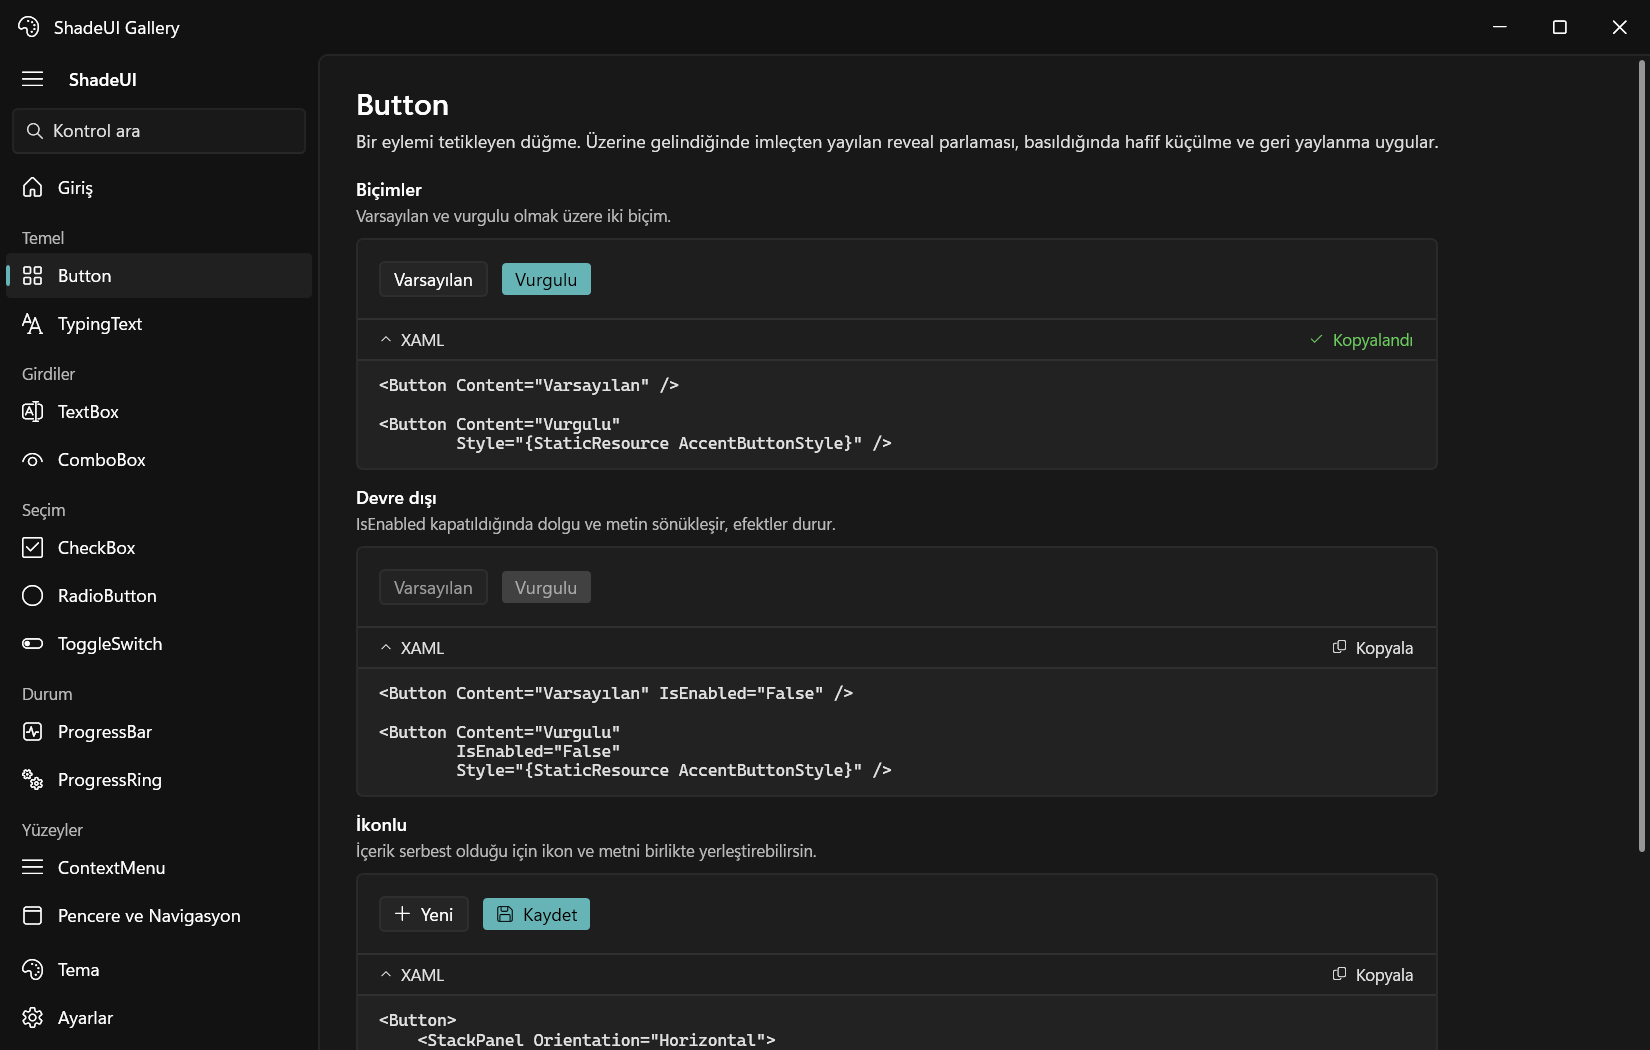
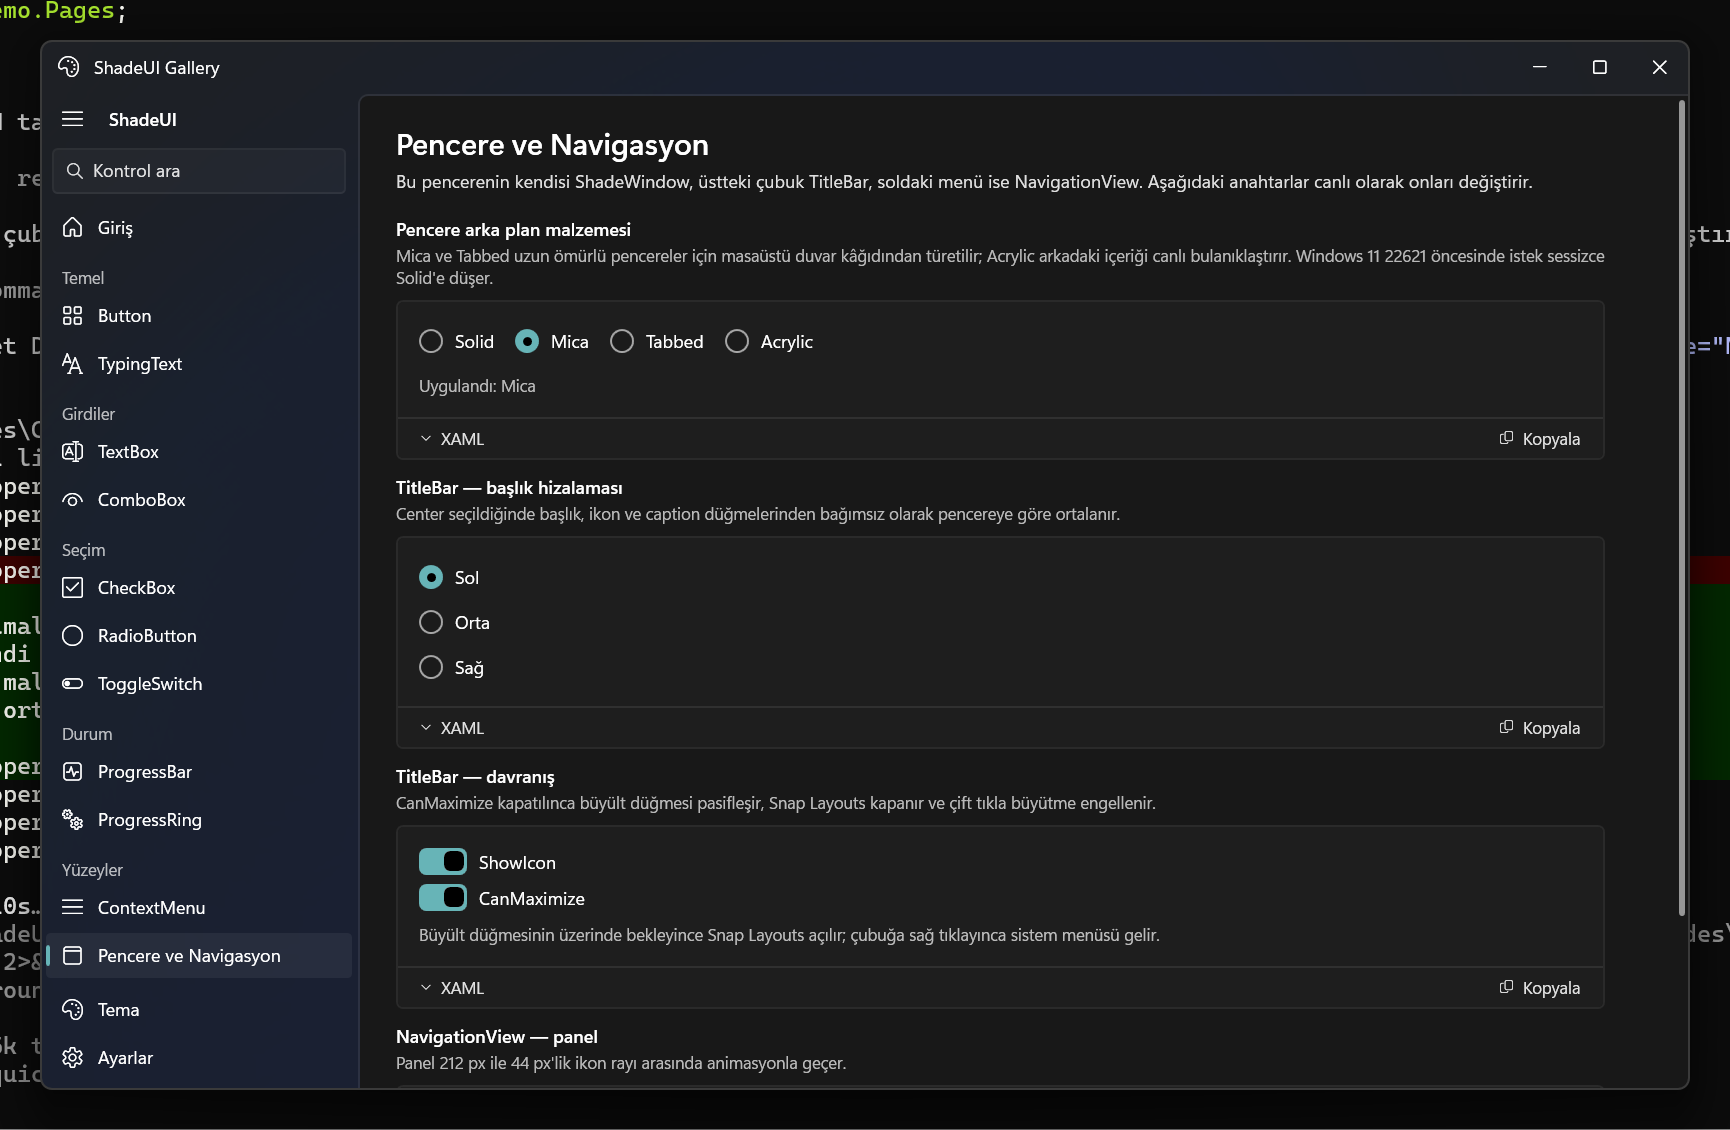
Pencere arka plan malzemesi: Solid, Mica, Tabbed, Acrylic
- ShadeWindow.Backdrop ile DWMWA_SYSTEMBACKDROP_TYPE isteniyor
  (Mica / Mica Alt "Tabbed" / Acrylic). Salt okunur ActualBackdrop, isteğin
  kabul edilip edilmediğini bildirir; Windows 11 22621 öncesinde DWM çağrısı
  başarısız olur ve pencere sessizce Solid'e döner.
- Malzemenin görünmesi için iki koşul gerekiyordu: HwndSource.CompositionTarget
  saydam olmalı ve pencere kendi zeminini boyamamalı. Şablon kökü artık yalnızca
  ActualBackdrop=Solid iken ApplicationBackgroundBrush ile boyanıyor.
- Tema değişiminde malzeme yeniden uygulanıyor; koyu/açık mod bayrağı DWM'in
  tint'ini değiştirdiği için gerekli.
- WindowStyle SingleBorderWindow -> None. GlassFrameThickness=-1 çerçeveyi
  istemci alanına uzattığı için DWM kendi caption düğmelerini de çiziyordu;
  opak zeminde görünmüyorlardı ama zemin saydamlaşınca bizimkilerin yanında
  ikinci bir set olarak ortaya çıktılar.

Galeride "Pencere ve Navigasyon" sayfasına canlı seçici ve uygulanan malzemeyi
bildiren durum satırı eklendi.

diff --git a/samples/ShadeUI.Demo/Pages/ShellPage.xaml b/samples/ShadeUI.Demo/Pages/ShellPage.xaml
@@ -16,6 +16,46 @@
                 Style="{StaticResource BodyTextBlockStyle}"
                 Text="Bu pencerenin kendisi ShadeWindow, üstteki çubuk TitleBar, soldaki menü ise NavigationView. Aşağıdaki anahtarlar canlı olarak onları değiştirir." />
 
+            <ui:ControlExample
+                x:Name="Ex0"
+                Description="Mica ve Tabbed uzun ömürlü pencereler için masaüstü duvar kâğıdından türetilir; Acrylic arkadaki içeriği canlı bulanıklaştırır. Windows 11 22621 öncesinde istek sessizce Solid'e düşer."
+                Header="Pencere arka plan malzemesi">
+                <StackPanel>
+                    <StackPanel Orientation="Horizontal">
+                        <RadioButton
+                            Checked="OnBackdropChecked"
+                            Content="Solid"
+                            GroupName="Backdrop"
+                            IsChecked="True"
+                            Tag="Solid" />
+                        <RadioButton
+                            Margin="14,0,0,0"
+                            Checked="OnBackdropChecked"
+                            Content="Mica"
+                            GroupName="Backdrop"
+                            Tag="Mica" />
+                        <RadioButton
+                            Margin="14,0,0,0"
+                            Checked="OnBackdropChecked"
+                            Content="Tabbed"
+                            GroupName="Backdrop"
+                            Tag="Tabbed" />
+                        <RadioButton
+                            Margin="14,0,0,0"
+                            Checked="OnBackdropChecked"
+                            Content="Acrylic"
+                            GroupName="Backdrop"
+                            Tag="Acrylic" />
+                    </StackPanel>
+                    <TextBlock
+                        x:Name="BackdropStatus"
+                        Margin="0,10,0,0"
+                        Foreground="{DynamicResource TextFillColorTertiaryBrush}"
+                        Style="{StaticResource CaptionTextBlockStyle}"
+                        TextWrapping="Wrap" />
+                </StackPanel>
+            </ui:ControlExample>
+
             <ui:ControlExample x:Name="Ex1" Description="Center seçildiğinde başlık, ikon ve caption düğmelerinden bağımsız olarak pencereye göre ortalanır." Header="TitleBar — başlık hizalaması">
                 <StackPanel>
                     <RadioButton

diff --git a/src/ShadeUI/Resources/Controls/Window.xaml b/src/ShadeUI/Resources/Controls/Window.xaml
@@ -14,11 +14,22 @@
                     UseAeroCaptionButtons="False" />
             </Setter.Value>
         </Setter>
-        <Setter Property="Background" Value="{DynamicResource ApplicationBackgroundBrush}" />
+        <!--
+            Sistem malzemesi etkinken pencere kendi zeminini boyamaz; aksi hâlde
+            arkasındaki mica/acrylic tamamen kapanır. ActualBackdrop kullanılıyor ki
+            desteklenmeyen bir istek sessizce opak zemine düşsün.
+        -->
+        <Setter Property="Background" Value="Transparent" />
         <Setter Property="Foreground" Value="{DynamicResource TextFillColorPrimaryBrush}" />
         <Setter Property="FontFamily" Value="{DynamicResource ShadeFontFamily}" />
         <Setter Property="FontSize" Value="{DynamicResource ControlFontSize}" />
-        <Setter Property="WindowStyle" Value="SingleBorderWindow" />
+        <!--
+            None olmalı: GlassFrameThickness=-1 ile çerçeve istemci alanına uzatıldığı için
+            DWM kendi caption düğmelerini de çiziyor. Opak zeminde görünmüyorlardı, ama
+            sistem malzemesi için zemin saydamlaşınca bizimkilerin yanında ikinci bir set
+            olarak ortaya çıkıyorlar. Pencere yine WindowChrome ile boyutlandırılabilir.
+        -->
+        <Setter Property="WindowStyle" Value="None" />
         <Setter Property="AllowsTransparency" Value="False" />
         <Setter Property="SnapsToDevicePixels" Value="True" />
         <Setter Property="UseLayoutRounding" Value="True" />
@@ -34,6 +45,9 @@
                         </AdornerDecorator>
                     </Border>
                     <ControlTemplate.Triggers>
+                        <Trigger Property="ActualBackdrop" Value="Solid">
+                            <Setter TargetName="PART_Root" Property="Background" Value="{DynamicResource ApplicationBackgroundBrush}" />
+                        </Trigger>
                         <!--  Compensate for the invisible resize frame that sticks out of the screen when maximized  -->
                         <Trigger Property="WindowState" Value="Maximized">
                             <Setter TargetName="PART_Root" Property="Padding" Value="8" />

diff --git a/src/ShadeUI/Controls/ShadeWindow.cs b/src/ShadeUI/Controls/ShadeWindow.cs
@@ -51,6 +51,38 @@ public class ShadeWindow : Window
         set => SetValue(EnableTransitionsProperty, value);
     }
 
+    public static readonly DependencyProperty BackdropProperty = DependencyProperty.Register(
+        nameof(Backdrop),
+        typeof(WindowBackdropType),
+        typeof(ShadeWindow),
+        new PropertyMetadata(WindowBackdropType.Solid, OnBackdropChanged));
+
+    private static readonly DependencyPropertyKey ActualBackdropPropertyKey = DependencyProperty.RegisterReadOnly(
+        nameof(ActualBackdrop),
+        typeof(WindowBackdropType),
+        typeof(ShadeWindow),
+        new PropertyMetadata(WindowBackdropType.Solid));
+
+    /// <summary>Identifies the read-only <see cref="ActualBackdrop"/> property.</summary>
+    public static readonly DependencyProperty ActualBackdropProperty = ActualBackdropPropertyKey.DependencyProperty;
+
+    /// <summary>
+    /// The system material requested behind the window. Defaults to
+    /// <see cref="WindowBackdropType.Solid"/>.
+    /// </summary>
+    public WindowBackdropType Backdrop
+    {
+        get => (WindowBackdropType)GetValue(BackdropProperty);
+        set => SetValue(BackdropProperty, value);
+    }
+
+    /// <summary>
+    /// The material actually in effect. Equals <see cref="Backdrop"/> when the compositor
+    /// accepted it, otherwise <see cref="WindowBackdropType.Solid"/>. The window style keys
+    /// its background off this, so an unsupported request still renders correctly.
+    /// </summary>
+    public WindowBackdropType ActualBackdrop => (WindowBackdropType)GetValue(ActualBackdropProperty);
+
     public override void OnApplyTemplate()
     {
         base.OnApplyTemplate();
@@ -68,6 +100,15 @@ public class ShadeWindow : Window
     protected override void OnSourceInitialized(EventArgs e)
     {
         base.OnSourceInitialized(e);
+
+        // A system backdrop is only visible through the WPF render surface if the
+        // composition target itself is transparent. The template root paints an opaque
+        // background in Solid mode, so this is safe to set unconditionally.
+        if (PresentationSource.FromVisual(this) is HwndSource { CompositionTarget: { } target })
+        {
+            target.BackgroundColor = Colors.Transparent;
+        }
+
         ApplyChromeAttributes();
     }
 
@@ -138,6 +179,27 @@ public class ShadeWindow : Window
         timer.Start();
     }
 
+    private static void OnBackdropChanged(DependencyObject d, DependencyPropertyChangedEventArgs e)
+    {
+        ((ShadeWindow)d).ApplyBackdrop();
+    }
+
+    private void ApplyBackdrop()
+    {
+        IntPtr hwnd = new WindowInteropHelper(this).Handle;
+        if (hwnd == IntPtr.Zero)
+        {
+            return;
+        }
+
+        WindowBackdropType requested = Backdrop;
+        bool applied = Dwm.SetSystemBackdrop(hwnd, requested);
+
+        SetValue(
+            ActualBackdropPropertyKey,
+            applied && requested != WindowBackdropType.Solid ? requested : WindowBackdropType.Solid);
+    }
+
     private void OnThemeChanged(object? sender, EventArgs e)
     {
         ApplyChromeAttributes();
@@ -158,5 +220,9 @@ public class ShadeWindow : Window
         {
             Dwm.SetBorderColor(hwnd, borderColor);
         }
+
+        // The dark-mode flag changes how the compositor tints the material, so the
+        // backdrop has to be re-applied after a theme switch.
+        ApplyBackdrop();
     }
 }

diff --git a/src/ShadeUI/Interop/Dwm.cs b/src/ShadeUI/Interop/Dwm.cs
@@ -13,8 +13,15 @@ internal static class Dwm
     private const int DwmwaUseImmersiveDarkModeOld = 19; // Windows 10 builds before 20H1
     private const int DwmwaWindowCornerPreference = 33;
     private const int DwmwaBorderColor = 34;
+    private const int DwmwaSystemBackdropType = 38;
 
     private const int DwmwcpRound = 2;
+
+    // DWM_SYSTEMBACKDROP_TYPE
+    private const int DwmsbtNone = 1;
+    private const int DwmsbtMainWindow = 2;      // Mica
+    private const int DwmsbtTransientWindow = 3; // Acrylic
+    private const int DwmsbtTabbedWindow = 4;    // Mica Alt
 
     [DllImport("dwmapi.dll", ExactSpelling = true)]
     private static extern int DwmSetWindowAttribute(IntPtr hwnd, int attribute, ref int value, int size);
@@ -55,6 +62,36 @@ internal static class Dwm
         }
         catch (DllNotFoundException)
         {
+        }
+    }
+
+    /// <summary>
+    /// Asks the compositor for a system backdrop material.
+    /// Returns <see langword="false"/> when the OS does not support it (pre-22621),
+    /// so the caller can fall back to painting an opaque background.
+    /// </summary>
+    public static bool SetSystemBackdrop(IntPtr hwnd, Appearance.WindowBackdropType type)
+    {
+        if (hwnd == IntPtr.Zero)
+        {
+            return false;
+        }
+
+        int value = type switch
+        {
+            Appearance.WindowBackdropType.Mica => DwmsbtMainWindow,
+            Appearance.WindowBackdropType.Tabbed => DwmsbtTabbedWindow,
+            Appearance.WindowBackdropType.Acrylic => DwmsbtTransientWindow,
+            _ => DwmsbtNone,
+        };
+
+        try
+        {
+            return DwmSetWindowAttribute(hwnd, DwmwaSystemBackdropType, ref value, sizeof(int)) == 0;
+        }
+        catch (DllNotFoundException)
+        {
+            return false;
         }
     }
 

diff --git a/samples/ShadeUI.Demo/Pages/ShellPage.xaml.cs b/samples/ShadeUI.Demo/Pages/ShellPage.xaml.cs
@@ -1,5 +1,6 @@
 using System.Windows;
 using System.Windows.Controls;
+using ShadeUI.Appearance;
 using ShadeUI.Controls;
 
 namespace ShadeUI.Demo.Pages;
@@ -9,6 +10,13 @@ public partial class ShellPage : UserControl
     public ShellPage()
     {
         InitializeComponent();
+
+        Ex0.Xaml = """
+            <ui:ShadeWindow Backdrop="Mica" />
+
+            <!-- Solid | Mica | Tabbed | Acrylic -->
+            <!-- ActualBackdrop, isteğin kabul edilip edilmediğini bildirir. -->
+            """;
 
         Ex1.Xaml = """
             <ui:TitleBar Title="Uygulamam"
@@ -43,6 +51,25 @@ public partial class ShellPage : UserControl
     }
 
     private MainWindow? Host => Window.GetWindow(this) as MainWindow;
+
+    private void OnBackdropChecked(object sender, RoutedEventArgs e)
+    {
+        if (Host is not { } host || sender is not RadioButton { Tag: string tag })
+        {
+            return;
+        }
+
+        if (!Enum.TryParse(tag, out WindowBackdropType requested))
+        {
+            return;
+        }
+
+        host.Backdrop = requested;
+
+        BackdropStatus.Text = host.ActualBackdrop == requested
+            ? $"Uygulandı: {host.ActualBackdrop}"
+            : $"'{requested}' bu Windows sürümünde desteklenmiyor, {host.ActualBackdrop} kullanılıyor.";
+    }
 
     private void OnTitleAlignmentChecked(object sender, RoutedEventArgs e)
     {

diff --git a/src/ShadeUI/Appearance/WindowBackdropType.cs b/src/ShadeUI/Appearance/WindowBackdropType.cs
@@ -1,0 +1,21 @@
+namespace ShadeUI.Appearance;
+
+/// <summary>
+/// The material the desktop compositor paints behind a window.
+/// Everything except <see cref="Solid"/> needs Windows 11 build 22621 or newer;
+/// on older systems <see cref="Controls.ShadeWindow"/> falls back to <see cref="Solid"/>.
+/// </summary>
+public enum WindowBackdropType
+{
+    /// <summary>No system material — the window paints its own opaque background.</summary>
+    Solid,
+
+    /// <summary>Mica: a slow, desktop-wallpaper-tinted material for long-lived windows.</summary>
+    Mica,
+
+    /// <summary>Mica Alt ("tabbed"): a stronger Mica variant meant for tabbed shells.</summary>
+    Tabbed,
+
+    /// <summary>Acrylic: a live blur of what is behind the window, for transient surfaces.</summary>
+    Acrylic,
+}

diff --git a/README.md b/README.md
@@ -11,6 +11,7 @@ A modern, Fluent-inspired UI and theme library for WPF — custom window chrome,
 ## Features
 
 - 🪟 **ShadeWindow** — custom window chrome with a Win11-style title bar, dark-mode aware non-client area, a themed 1 px DWM border, rounded corners and open/close transitions
+- 🌫 **System backdrops** — `Backdrop="Solid | Mica | Tabbed | Acrylic"`; unsupported requests fall back to `Solid` and report it through `ActualBackdrop`
 - 🎛 **Declarative TitleBar** — `TitleAlignment`, `IconGlyph` / `ShowIcon`, leading & trailing content slots, `CanMaximize`, `CloseButtonAction`, plus the native behaviours custom chrome usually loses: **Snap Layouts** on the maximize button and the **system menu** on right-click
 - 🎨 **Live system theming** — follows the Windows dark/light setting *and* accent color in real time (`Theme="System"`)
 - 🌗 **Dark & Light palettes** — WinUI-style design tokens (`ApplicationBackgroundBrush`, `TextFillColorPrimaryBrush`, `AccentFillColorDefaultBrush`, …) on one even surface ramp: shell → content pane → card → control
